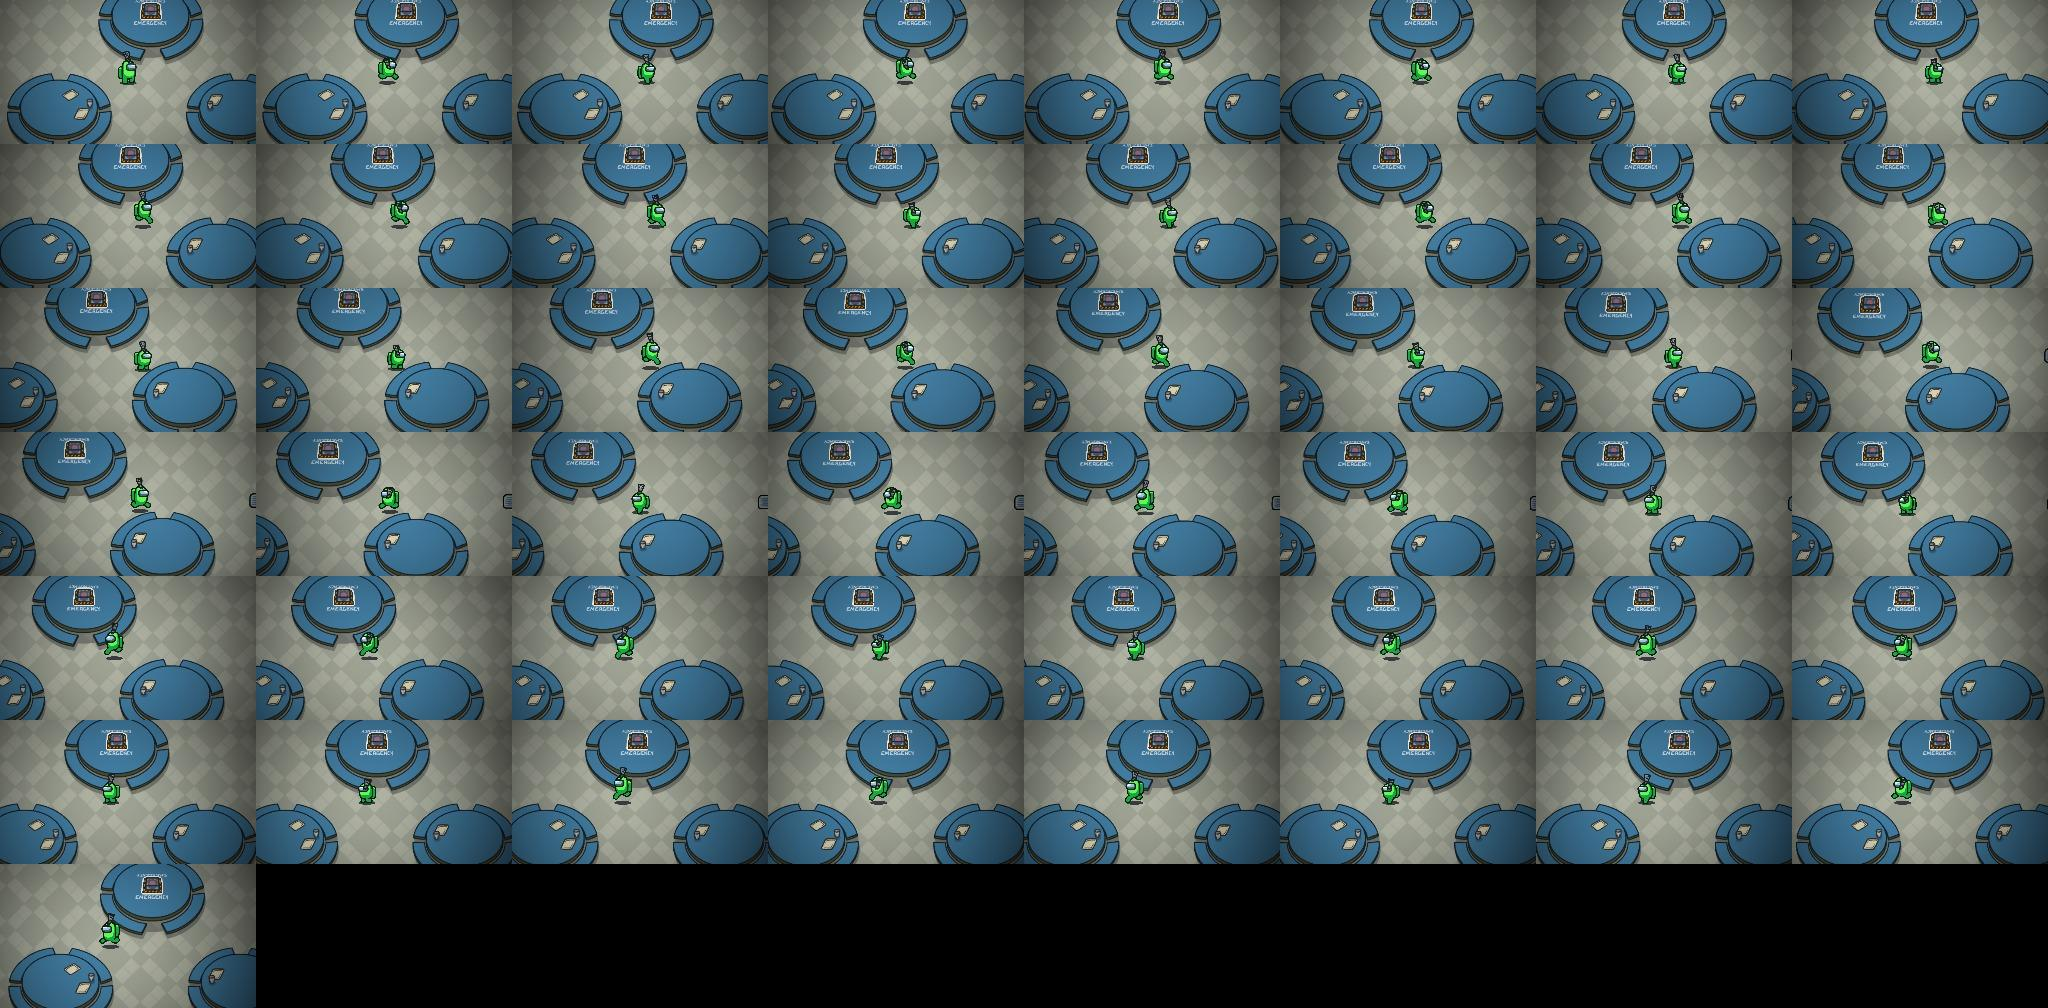
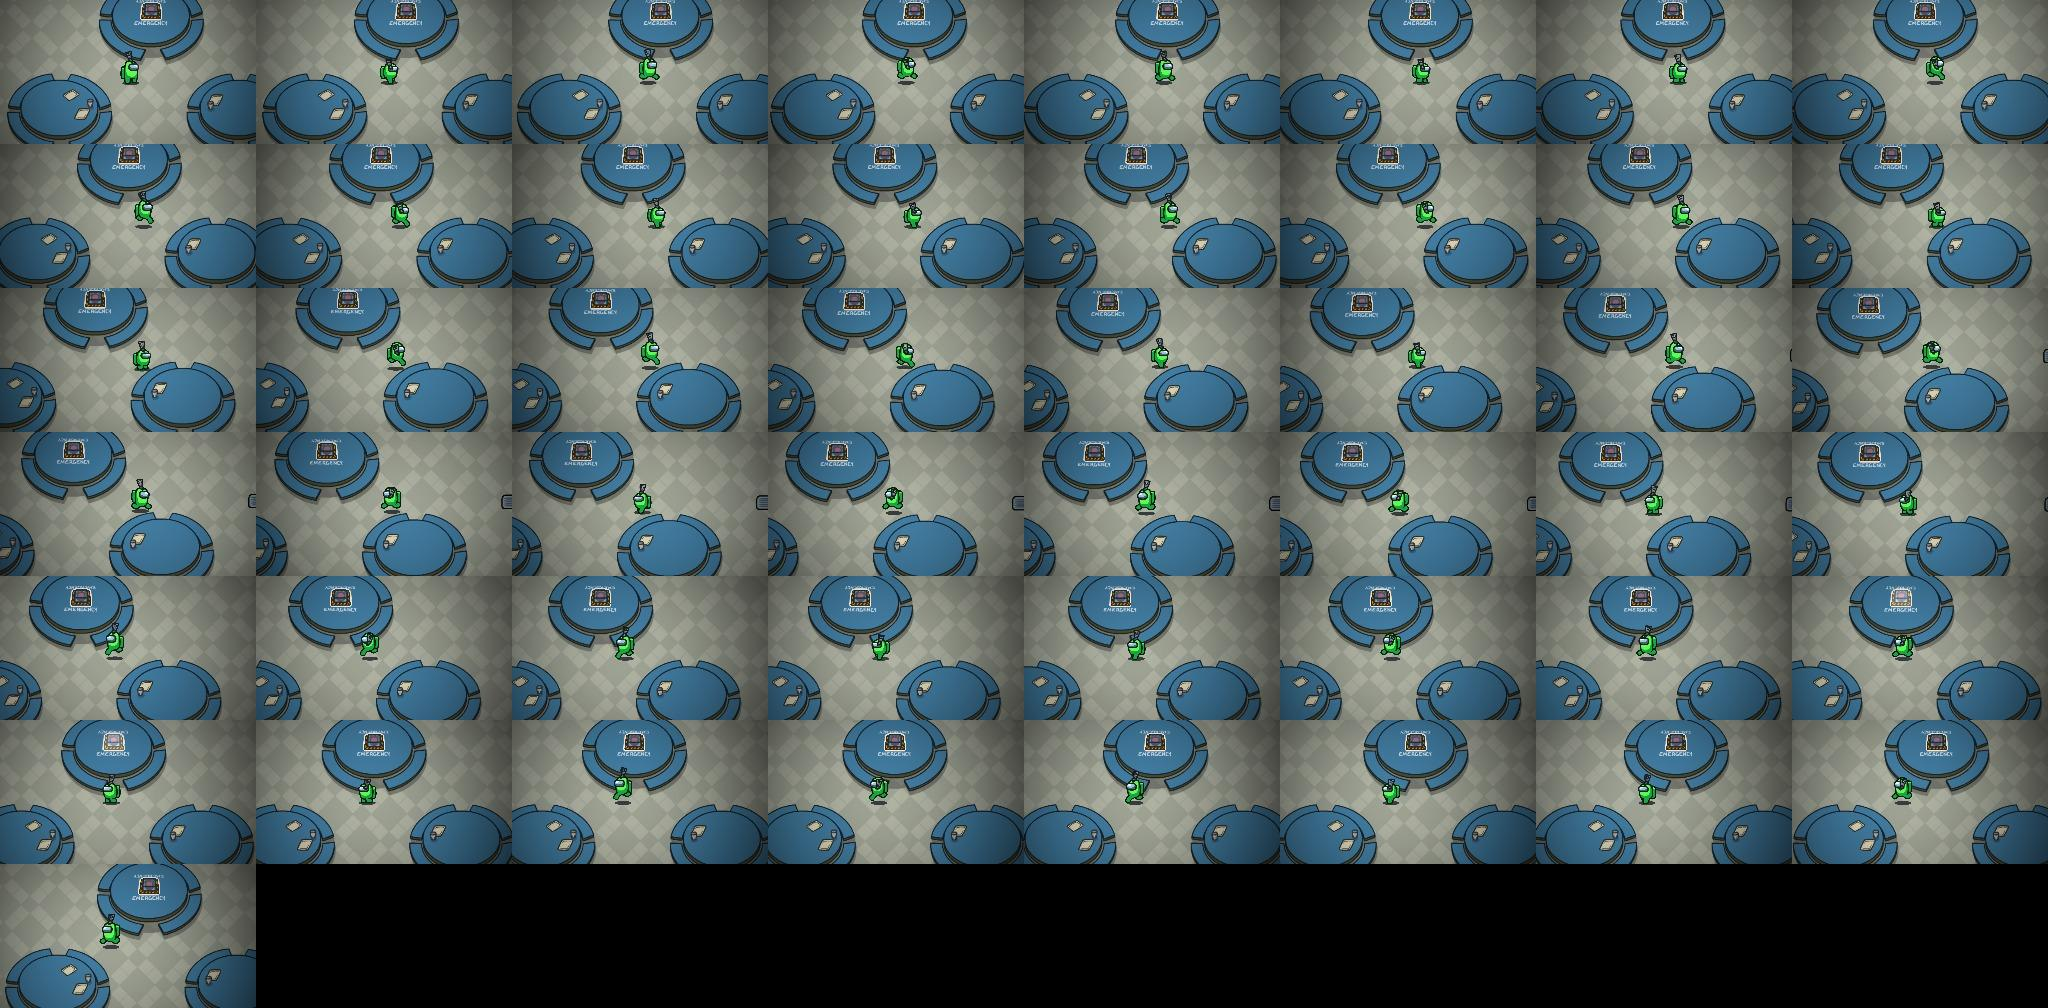
ゲームの頁のキルのクールダウンの図を、本編のキルボタンとキルの映像に替える
キルのクールダウンは、本編のキルボタンが暗くなって秒を数え (10 秒を 1 秒に縮めて進める・字は本編の秒のまま)、
明けたら本編で撮ったキルの映像を 1 回流して繰り返す。ボタンの絵と暗い覆いの材質は本編のキルボタンから借りる。
移動速度と視界の映像も撮り直した。

diff --git a/Modules/SettingsMenu/GamePreview.cs b/Modules/SettingsMenu/GamePreview.cs
@@ -6,6 +6,7 @@ namespace TownOfHostL.SettingsUI;
 
 // ゲームの頁の右の欄に出す、本編の設定の意味を見せる動く図。字は使わない。
 // 移動速度 = 本編で撮った 1 倍の歩きの映像を、値の倍率で再生する / 視界 = 本編で撮った値ごとの止め絵 (いちばん近い値) /
+// キルのクールダウン = 本編のキルボタンが暗くなって秒を数え (10 秒を 1 秒に縮める)、明けたら本編で撮ったキルの映像を流す。
 // 映像が読めない時は自前の図: 移動速度 = 基準 (1 倍・灰) と今の速さのクルーが並んで走る / 視界 = 暗い中のクルーとインポスターの明かりの大きさ (半径は値の平方根) /
 // キルのクールダウン = インポスターの周りの目盛りが埋まる速さ (10 秒で 1 周を 1 秒に縮めて見せる)。
 // どの図を出すかは、最後に当てた・変えた本編の設定で決める (かくれんぼの設定など図の無い項目では変えない)。
@@ -47,6 +48,13 @@ internal sealed class GamePreview : Widget
     private SpriteRenderer _crewGlow, _crewLight, _crewBody, _impGlow, _impLight, _impBody;
     private readonly SpriteRenderer[] _dots = new SpriteRenderer[Dots];
     private SpriteRenderer _victim;
+    private GameObject _killDrawn;
+    private SpriteRenderer _killFoot, _killBtn;
+    private Label _killNum;
+    private int _killShown = -2, _killFrame = -1;
+    private float _killT;
+    private static readonly int PercentId = Shader.PropertyToID("_Percent");
+    private static Material _killMat;
 
     private float _speed = 1f;
     private float _crewR, _impR, _crewTarget, _impTarget;
@@ -136,6 +144,14 @@ internal sealed class GamePreview : Widget
         if (_speedDrawn) _speedDrawn.SetActive(!hasSpeed);
         if (hasSpeed && _speedFrame < 0) { _speedFrame = 0; _speedFoot.sprite = speed.Frame(0); }
 
+        var kill = _scene == Scene.KillCooldown ? Footage.Get("kill") : null;
+        bool hasKill = kill != null && _killFoot;
+        if (_killFoot) _killFoot.gameObject.SetActive(hasKill);
+        if (_killBtn) _killBtn.gameObject.SetActive(hasKill);
+        if (_killNum?.Built) _killNum.Built.gameObject.SetActive(hasKill);
+        if (_killDrawn) _killDrawn.SetActive(!hasKill);
+        if (hasKill && _killFrame < 0) { _killFrame = 0; _killFoot.sprite = kill.Frame(0); }
+
         var vision = _scene == Scene.Vision ? Footage.Get("vision") : null;
         bool hasVision = vision != null && _visionFoot;
         if (_visionFoot) _visionFoot.gameObject.SetActive(hasVision);
@@ -194,19 +210,22 @@ internal sealed class GamePreview : Widget
         (_crewGlow, _crewLight, _crewBody) = Lit(_visionDrawn.transform, crew, circle, CrewColor, -side);
         (_impGlow, _impLight, _impBody) = Lit(_visionDrawn.transform, crew, circle, ImpColor, side);
 
-        // キルのクールダウン: インポスターの周りの目盛り・右に狙われるクルー
+        // キルのクールダウン: 映像と本編のキルボタン (無い時はインポスターの周りの目盛り・右に狙われるクルー)
         _killRoot = Node("Kill", go.transform, layer);
+        _killFoot = FootagePart(_killRoot.transform);
+        BuildKillButton(ctx);
+        _killDrawn = Node("Drawn", _killRoot.transform, layer);
         float cx = -Width * 0.18f, ring = Math.Min(Height * 0.4f, Width * 0.24f);
         for (int i = 0; i < Dots; i++)
         {
             float a = MathF.PI / 2f - i * MathF.PI * 2f / Dots;
-            var d = Part(_killRoot.transform, "Dot", circle, DotOff, 1);
+            var d = Part(_killDrawn.transform, "Dot", circle, DotOff, 1);
             d.transform.localScale = new Vector3(0.07f, 0.07f, 1f);
             d.transform.localPosition = new Vector3(cx + MathF.Cos(a) * ring, MathF.Sin(a) * ring, 0f);
             _dots[i] = d;
         }
-        Figure(_killRoot.transform, crew, ImpColor, 0f, 3).transform.localPosition = new Vector3(cx, 0f, 0f);
-        _victim = Figure(_killRoot.transform, crew, CrewColor, 0f, 3);
+        Figure(_killDrawn.transform, crew, ImpColor, 0f, 3).transform.localPosition = new Vector3(cx, 0f, 0f);
+        _victim = Figure(_killDrawn.transform, crew, CrewColor, 0f, 3);
         _victim.transform.localPosition = new Vector3(Width * 0.3f, 0f, 0f);
         // 相手を左向きに (インポスターの方を向く)
         _victim.flipX = true;
@@ -216,6 +235,33 @@ internal sealed class GamePreview : Widget
         _impR = _impTarget;
         ShowScene();
         return go;
+    }
+
+    // 本編のキルボタンの絵と、待ち時間の暗い覆いの材質 (本編のボタンと同じ _Percent で暗くする) を借りる。秒の字は上に重ねる
+    private void BuildKillButton(BuildCtx ctx)
+    {
+        var src = HudManager.InstanceExists ? HudManager.Instance.KillButton : null;
+        var g = src ? src.graphic : null;
+        if (!g || !g.sprite) return;
+        _killBtn = Part(_killRoot.transform, "KillButton", g.sprite, Color.white, 3);
+        // 材質は 1 つを使い回す (頁を組み直すたびに作ると積み上がる)
+        if (!_killMat && g.sharedMaterial)
+        {
+            _killMat = new Material(g.sharedMaterial) { name = "TohlPreviewKillButton" };
+            _killMat.hideFlags |= HideFlags.DontUnloadUnusedAsset;
+        }
+        if (_killMat) _killBtn.sharedMaterial = _killMat;
+        var b = g.sprite.bounds.size;
+        float size = Height * 0.42f;
+        float sc = size / Math.Max(Math.Max(b.x, b.y), 0.0001f);
+        _killBtn.transform.localScale = new Vector3(sc, sc, 1f);
+        var pos = new Vector3(Width / 2f - size / 2f - 0.08f, -Height / 2f + size / 2f + 0.06f, 0f);
+        _killBtn.transform.localPosition = pos;
+        _killBtn.gameObject.SetActive(false);
+        _killNum = new Label("", 3.2f) { Bold = true, Width = size, TextAlign = TMPro.TextAlignmentOptions.Center };
+        var t = _killNum.Build(_killRoot.transform, ctx, size, out _);
+        t.transform.localPosition = pos + new Vector3(0f, 0f, -0.02f);
+        t.SetActive(false);
     }
 
     private SpriteRenderer Part(Transform parent, string name, Sprite sprite, Color c, int order)
@@ -288,6 +334,7 @@ internal sealed class GamePreview : Widget
             _appliedBase = baseOrder;
             foreach (var (r, order, _) in _parts)
                 if (r) r.sortingOrder = baseOrder + order;
+            if (_killNum?.Built) _killNum.Built.sortingOrder = baseOrder + 4;
         }
         float now = Time.unscaledTime;
         float dt = _last < 0f ? 0f : Math.Min(now - _last, 0.1f);
@@ -296,7 +343,7 @@ internal sealed class GamePreview : Widget
         {
             case Scene.Speed: TickSpeed(now, dt); break;
             case Scene.Vision: TickVision(dt); break;
-            case Scene.KillCooldown: TickKill(now); break;
+            case Scene.KillCooldown: TickKill(now, dt); break;
         }
     }
 
@@ -343,8 +390,31 @@ internal sealed class GamePreview : Widget
         if (glow) glow.transform.localScale = new Vector3(r * 2.5f, r * 2.5f, 1f);
     }
 
-    private void TickKill(float now)
+    private void TickKill(float now, float dt)
     {
+        // 映像: 待ち時間 (ボタンが暗く、秒を数える) → キルの映像を 1 回流す → 繰り返す
+        if (_killFoot && _killFoot.gameObject.activeSelf)
+        {
+            var f = Footage.Get("kill");
+            if (f == null) return;
+            float wait = Math.Max(_cooldown * CooldownScale, 0.3f);
+            float play = f.Count / Math.Max(f.Fps, 1f);
+            _killT += dt;
+            if (_killT >= wait + play) _killT -= (wait + play) * MathF.Floor(_killT / (wait + play));
+            bool waiting = _killT < wait;
+            int frame = waiting ? 0 : Math.Min((int)((_killT - wait) * f.Fps), f.Count - 1);
+            if (frame != _killFrame) { _killFrame = frame; _killFoot.sprite = f.Frame(frame); }
+            float left = waiting ? (1f - _killT / wait) : 0f;
+            if (_killMat) _killMat.SetFloat(PercentId, left);
+            // 秒の字は本編の秒で (縮めて見せるのは進む速さだけ)。変わった時だけ書く
+            int secs = waiting ? (int)MathF.Ceiling(left * _cooldown) : -1;
+            if (secs != _killShown && _killNum != null)
+            {
+                _killShown = secs;
+                _killNum.SetText(secs > 0 ? secs.ToString() : "");
+            }
+            return;
+        }
         float period = Math.Max(_cooldown * CooldownScale, 0.3f);
         float p = now / period;
         p -= MathF.Floor(p);
